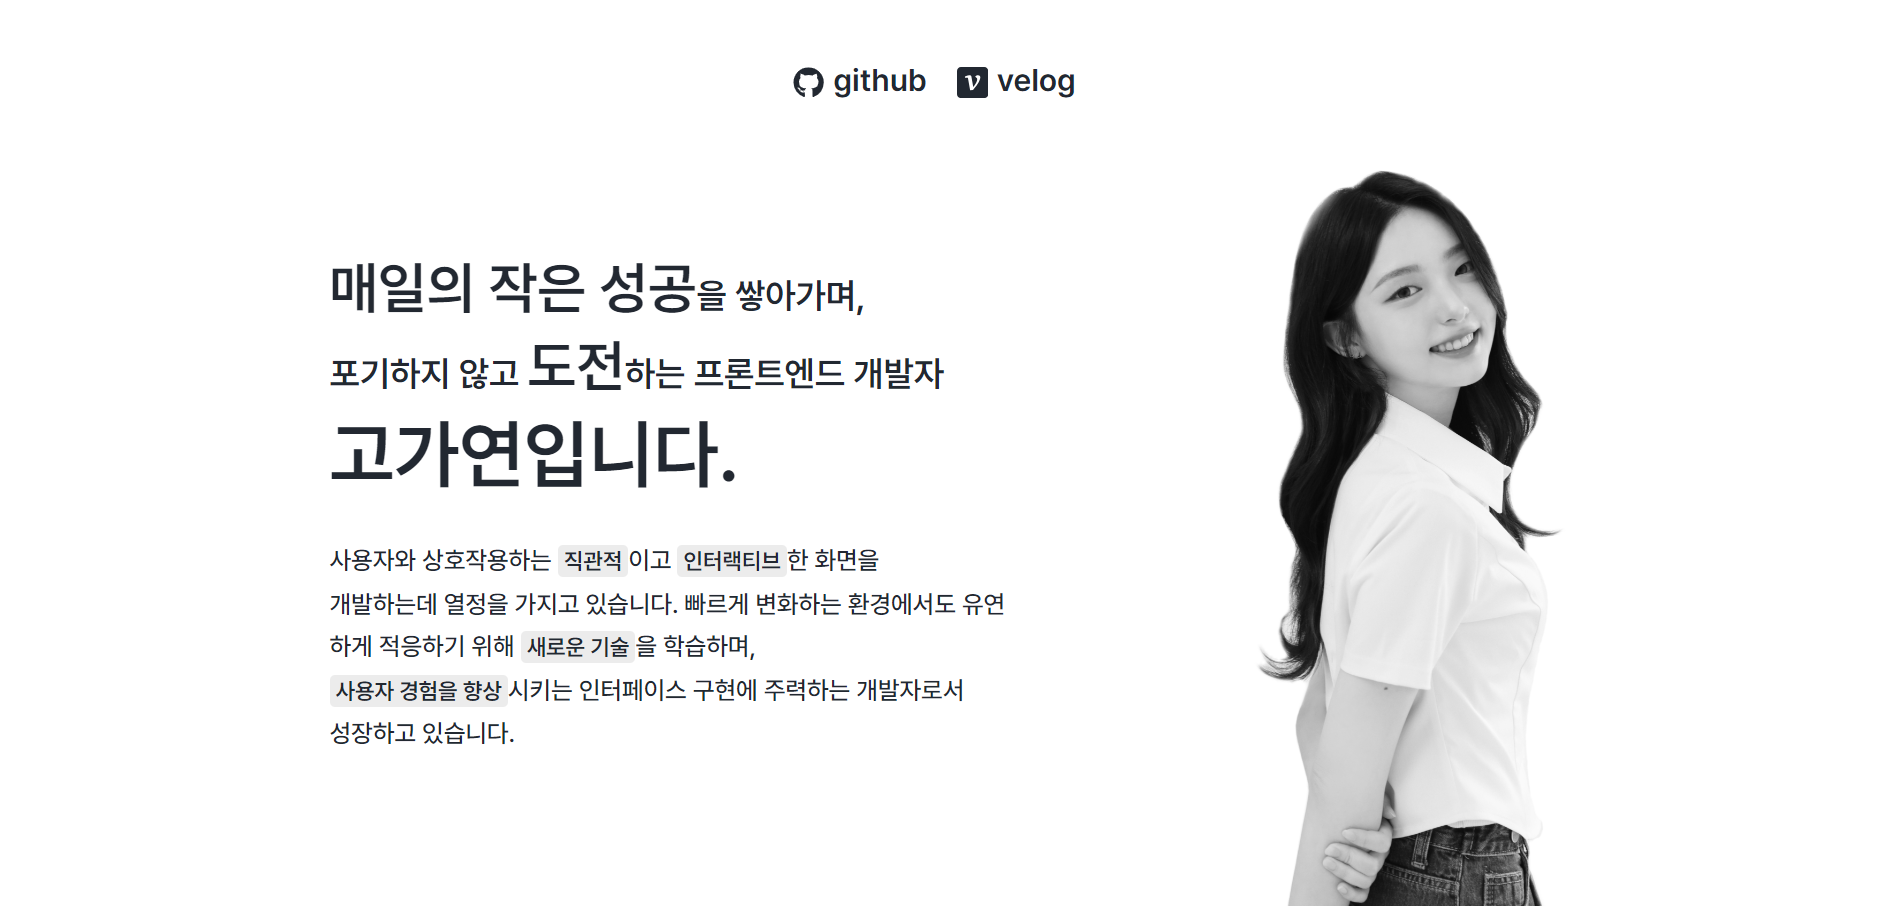
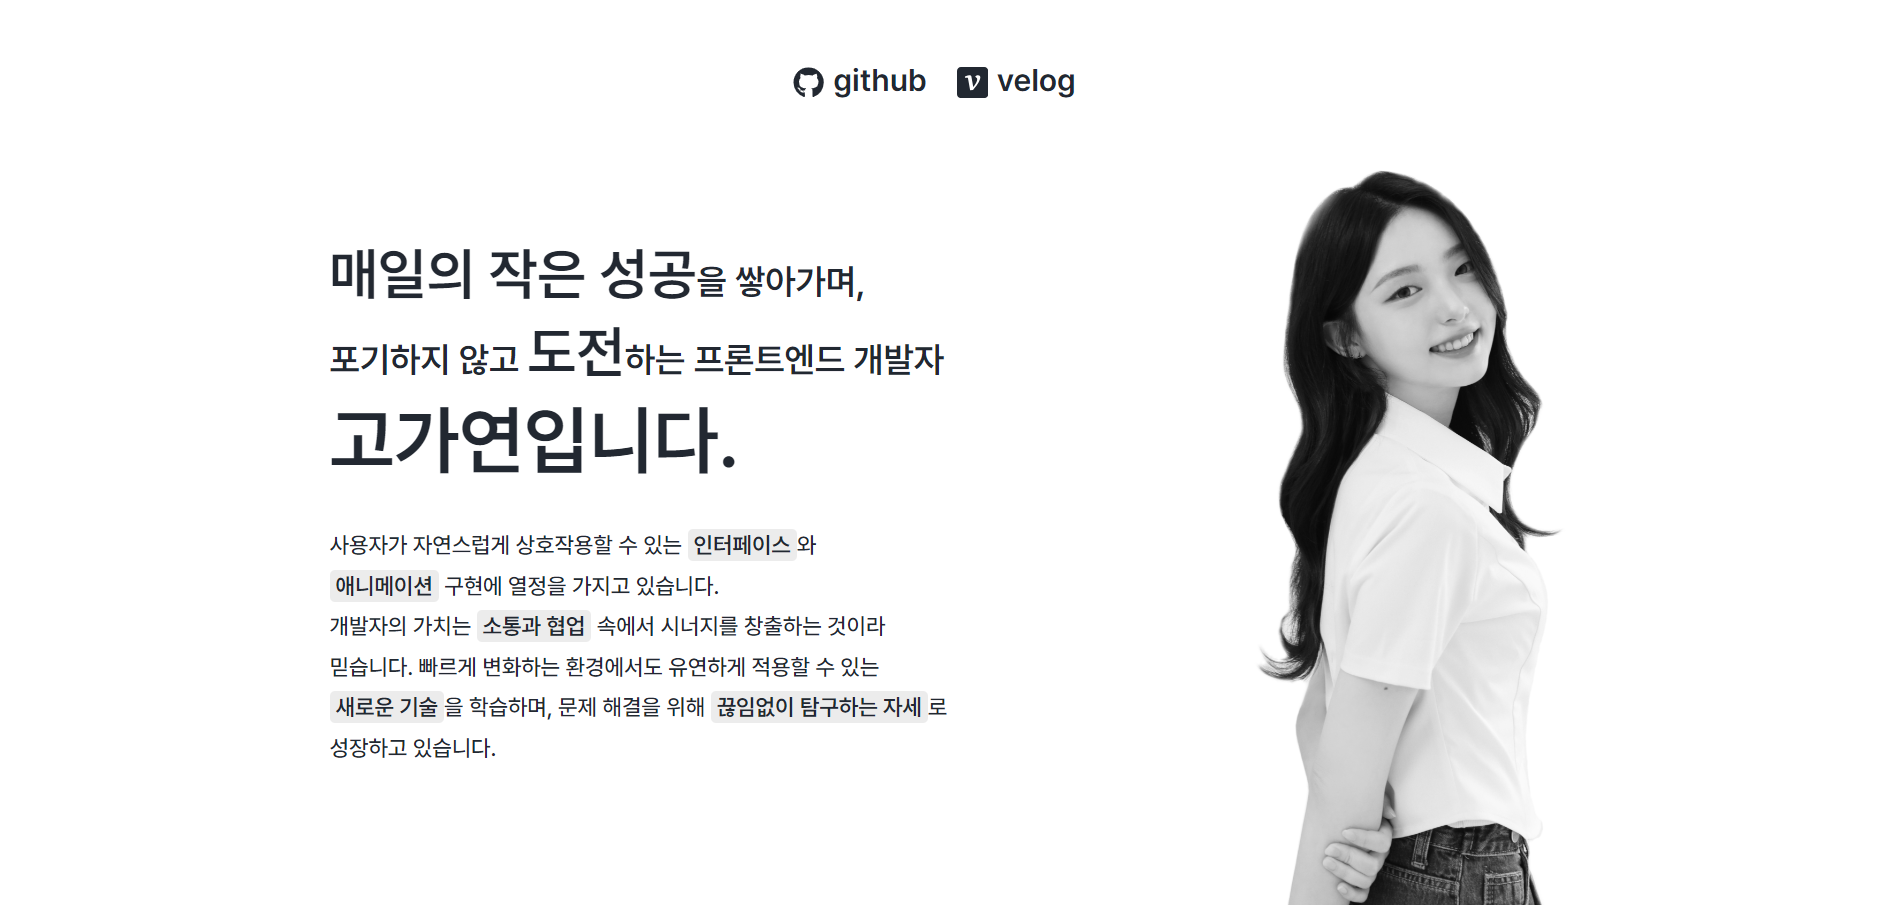
design: Modify introduce ui

Changed region(s): [[0.1557, 0.5878, 0.5293, 0.8354], [0.1557, 0.2785, 0.4982, 0.5569], [0.7472, 0.9282, 0.8095, 0.9901]]

diff --git a/src/App.js b/src/App.js
@@ -80,9 +80,9 @@ const TextArea = styled(motion.div)`
   div {
     font-size: 28px;
     &:last-child {
-      font-size: 20px;
+      font-size: 18px;
       margin-top: 2rem;
-      line-height: 170%;
+      line-height: 180%;
       font-family: 'Pretendard-Medium';
       span {
         font-size: 18px;
@@ -554,11 +554,13 @@ function App() {
                 <p><b>고가연입니다.</b></p>
                 
               </div>
-              <div>사용자와 상호작용하는 <span>직관적</span>이고 <span>인터랙티브</span>한 화면을 
-              <br/>개발하는데 열정을 가지고 있습니다. 빠르게 변화하는 환경에서도 
-              <br/>유연하게 적응하기 위해 <span>새로운 기술</span>을 학습하며,
-              <br/><span>사용자 경험을 향상</span>시키는 인터페이스 구현에 주력하는 개발자로서
-              <br/>성장하고 있습니다.</div>
+              <div>사용자가 자연스럽게 상호작용할 수 있는 <span>인터페이스</span>와 
+                <br/><span>애니메이션</span> 구현에 열정을 가지고 있습니다.
+                <br/>개발자의 가치는 <span>소통과 협업</span> 속에서 시너지를 창출하는 것이라
+                <br/>믿습니다. 빠르게 변화하는 환경에서도 유연하게 적용할 수 있는 
+                <br/><span>새로운 기술</span>을 학습하며, 문제 해결을 위해 <span>끊임없이 탐구하는 자세</span>로
+                <br/>성장하고 있습니다.
+              </div>
             </TextArea>
             <ImageArea
               initial={{ opacity: 0,}}
